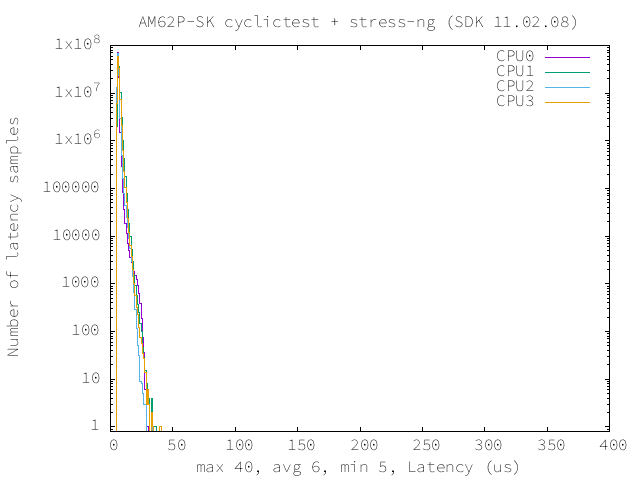
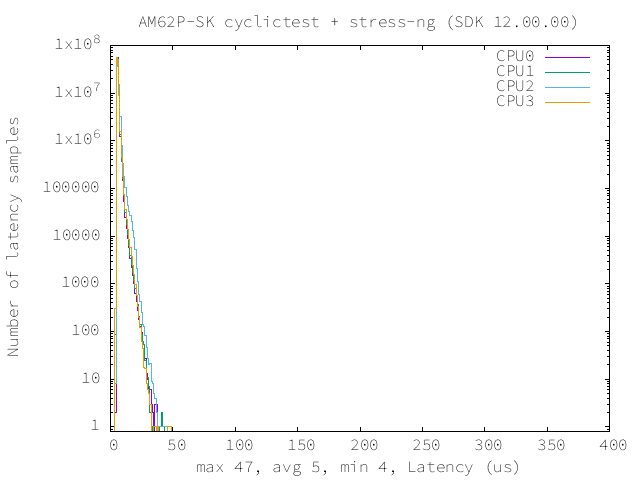
feat(AM62PX): Add PREEMPT_RT perf numbers
Add the AM62Px latency numbers for the SDK 12.0 release

diff --git a/source/devices/AM62PX/linux/RT_Linux_Performance_Guide.rst b/source/devices/AM62PX/linux/RT_Linux_Performance_Guide.rst
@@ -36,4 +36,49 @@ https://e2e.ti.com/ or https://support.ti.com/
 System Benchmarks
 *****************
 
-|
+Stress-ng and Cyclic Test
+
+.. _RT-linux-performance:
+
+stress-ng (next-generation) will stress test a embedded platform in various selectable ways.
+It was designed to exercise various physical subsystems as well as the various
+operating system kernel interfaces. stress-ng can also measure test throughput rates;
+this can be useful to observe performance changes across different operating system or types of hardware.
+
+Cyclictest is most commonly used for benchmarking RT systems.
+It is one of the most frequently used tools for evaluating the relative performance of real-time systems.
+Some performance tests which use Cyclictest are System benchmarking, Latency debugging with tracing and
+approximating application performance.
+
+Test commands used for running stress-ng and cyclictest together
+
+.. code:: console
+
+   stress-ng --cpu-method=all -c 4 &
+   cyclictest -m -Sp80 -D6h -h400 -i200 -M -q
+
+The following summarizes the latencies observed using the yocto based
+default SDK image
+
+.. note::
+
+   Using the OP-TEE TRNG driver can impact this benchmark's performance due to
+   frequent context switching between Normal World (Linux) and Secure World (OP-TEE),
+   that occurs when the kernel's hardware random number generator interface
+   (hwrng) requests entropy from the secure TRNG to replenish the Linux entropy
+   pool.
+
+   The Linux TRNG driver can mitigate these latency spikes. This involves
+   enabling the Pseudo RNG driver in OP-TEE as documented in the Foundational
+   Components section: :ref:`building-optee-with-prng`, and enabling the RNG
+   node in the Linux kernel device tree. This way the HW TRNG is accessed from
+   the kernel itself.
+
+.. csv-table::
+   :header: "Latencies","CPU 0","CPU 1","CPU 2","CPU 3"
+
+   "Minimum (usec)","4","4","4","4"
+   "Average (usec)","5","5","5","5"
+   "Maximum (usec)","39","42","44","47"
+
+.. image:: img/rt-cpu-method-all-latency-histogram.png
